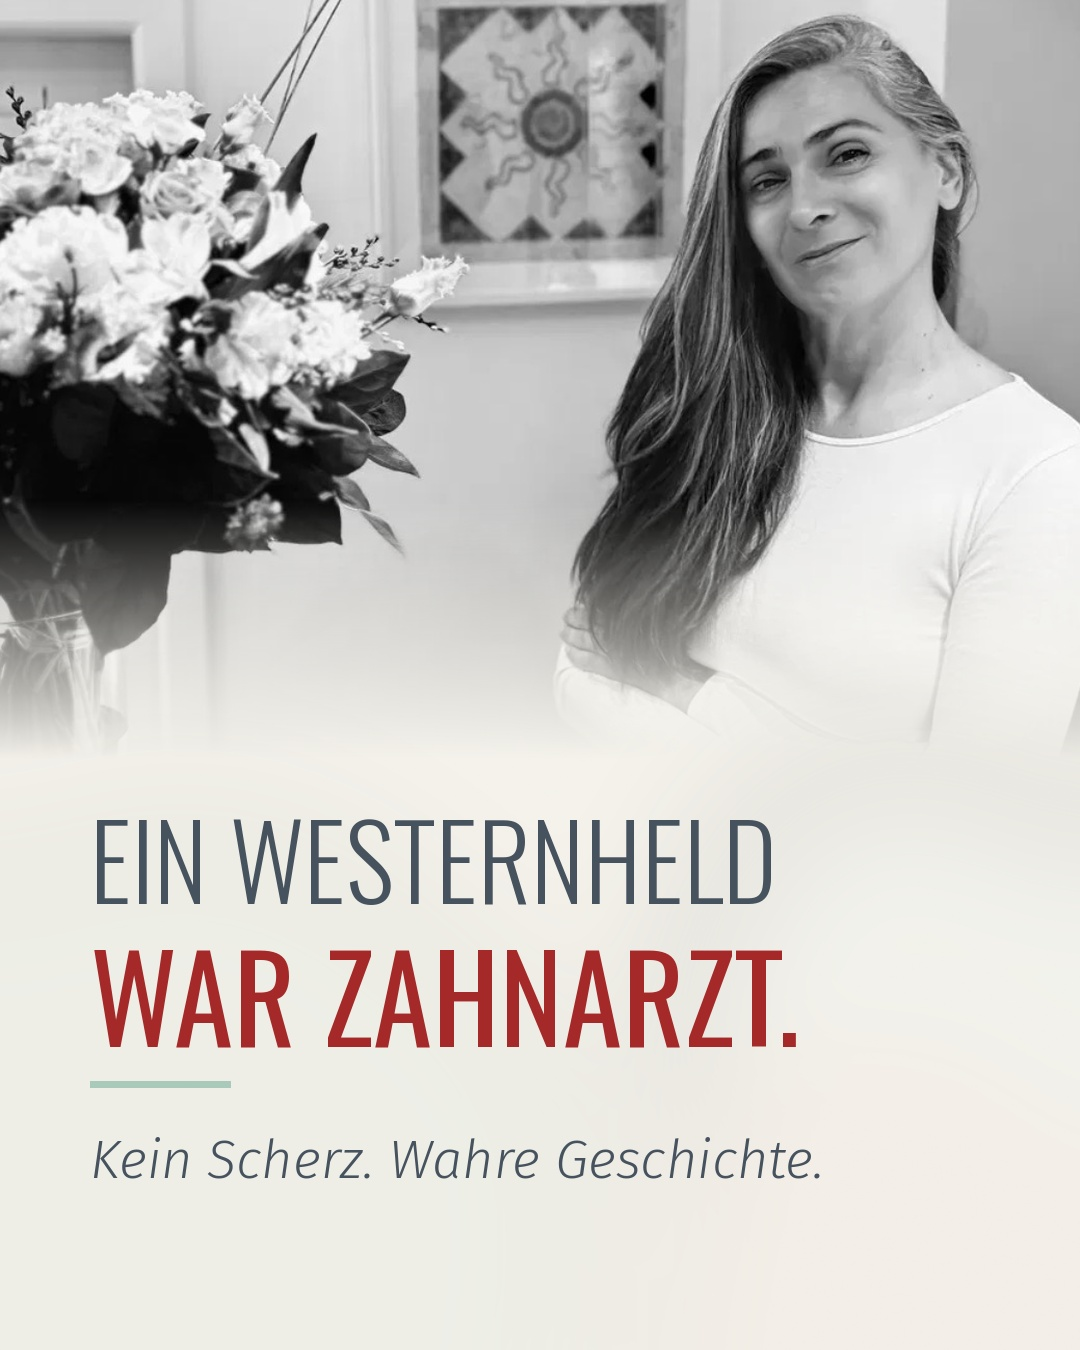
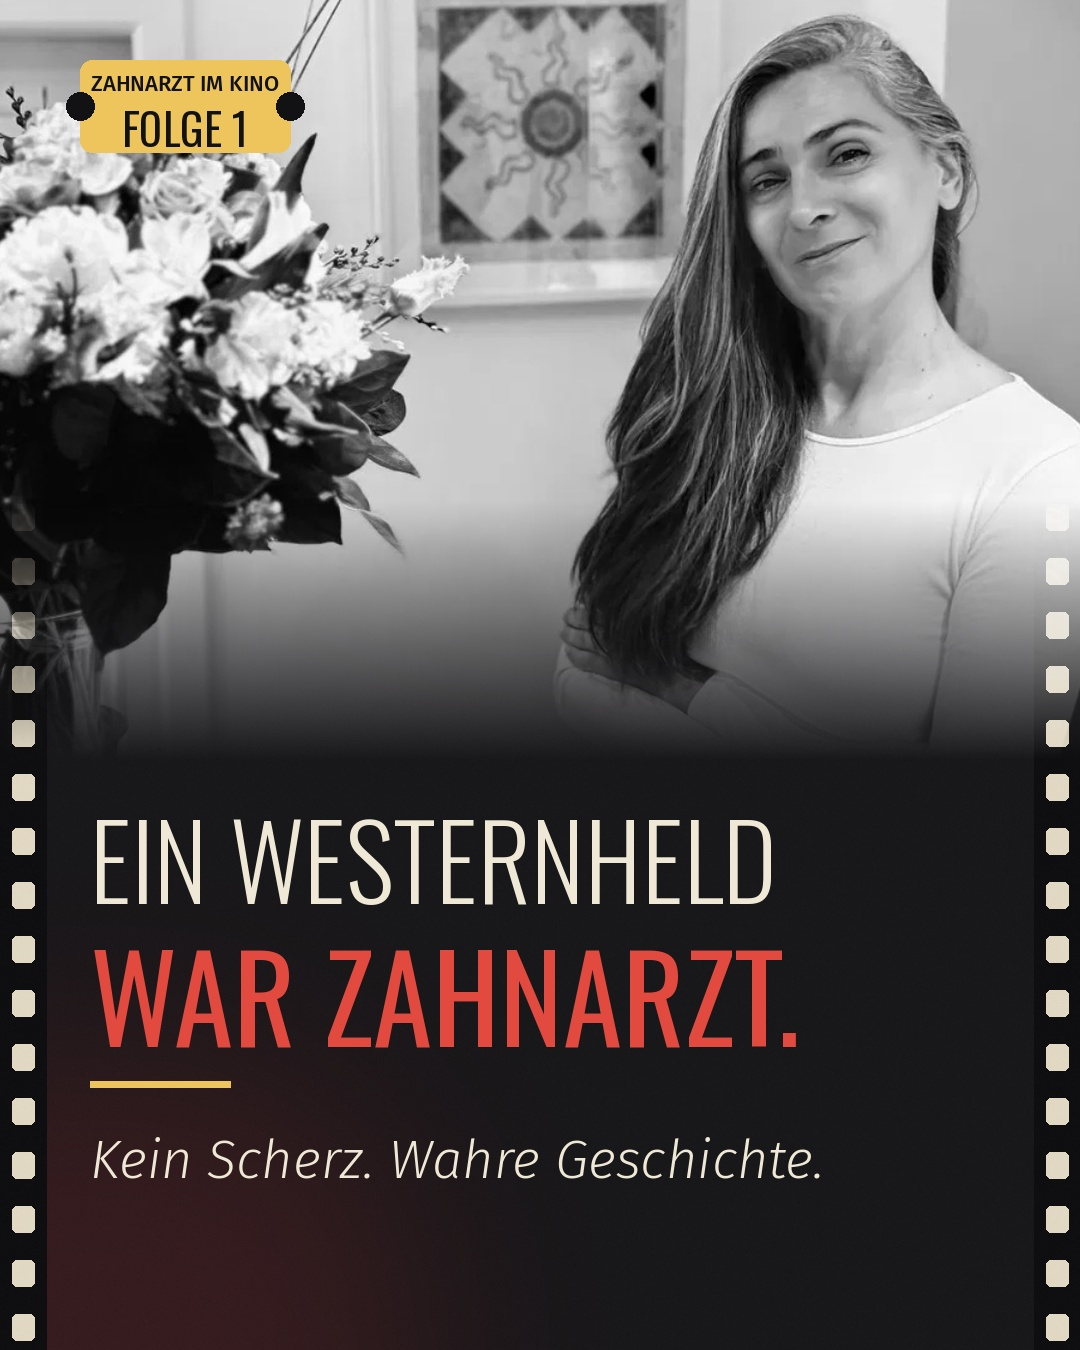
Kino-Look für Serie Zahnarzt im Kino
Claude-Session: https://claude.ai/code/session_012SPZoo3349FxBHtRPxeMWn

diff --git a/template/make_media.py b/template/make_media.py
@@ -49,7 +49,26 @@ def make_advent_bg(H):
     return Image.blend(bg.convert("RGB"), Image.merge("RGB", [noise] * 3), 0.035).convert("RGBA")
 
 
+def make_kino_bg(H):
+    random.seed(5)
+    bg = Image.new("RGB", (W, H), (18, 17, 20)).convert("RGBA")
+    glow = Image.new("RGBA", (W, H), (0, 0, 0, 0)); gd = ImageDraw.Draw(glow)
+    gd.ellipse([W * .1, -H * .25, W * .9, H * .45], fill=(255, 226, 170, 38))   # projector light
+    gd.ellipse([-200, H - 380, 500, H + 250], fill=(166, 41, 41, 55))           # red curtain glow
+    bg = Image.alpha_composite(bg, glow.filter(ImageFilter.GaussianBlur(120)))
+    # film strip edges
+    d = ImageDraw.Draw(bg); sw = 46
+    for x0 in (0, W - sw):
+        d.rectangle([x0, 0, x0 + sw, H], fill=(8, 8, 10))
+        y = 18
+        while y < H:
+            d.rounded_rectangle([x0 + 12, y, x0 + sw - 12, y + 26], radius=5, fill=(232, 222, 200, 255)); y += 54
+    noise = Image.effect_noise((W, H), 30).convert("L").point(lambda v: 128 + (v - 128) // 2)
+    return Image.blend(bg.convert("RGB"), Image.merge("RGB", [noise] * 3), 0.06).convert("RGBA")
+
+
 def make_bg(H):
+    if THEME == "kino": return make_kino_bg(H)
     if THEME == "advent": return make_advent_bg(H)
     random.seed(7)
     bg = Image.new("RGB", (W, H), CREAM)
@@ -151,6 +170,8 @@ class Builder:
         THEME = spec.get("theme", "default")
         if THEME == "advent":
             SLATE, RED, SAGE = (247, 239, 222), (236, 112, 96), (214, 178, 110)
+        elif THEME == "kino":
+            SLATE, RED, SAGE = (240, 232, 214), (226, 74, 64), (238, 196, 92)
         s.spec, s.H = spec, H
         s.reel = H == 1920
         s.bg = make_bg(H)
@@ -160,6 +181,17 @@ class Builder:
         s.zone = (260, 1520) if s.reel else (130, H - 140)
 
     def door(s, img, left=False):
+        if THEME == "kino" and s.spec.get("episode"):
+            d = ImageDraw.Draw(img); tw_, th_ = 210, 92
+            x0 = (80 if left else W - 80 - tw_); y0 = (150 if s.reel else 60)
+            d.rounded_rectangle([x0, y0, x0 + tw_, y0 + th_], radius=12, fill=SAGE)
+            for cy in (y0 + th_ / 2,):
+                d.ellipse([x0 - 14, cy - 14, x0 + 14, cy + 14], fill=(18, 17, 20)); d.ellipse([x0 + tw_ - 14, cy - 14, x0 + tw_ + 14, cy + 14], fill=(18, 17, 20))
+            f1 = fira(22, "Medium"); f2 = oswald(44, 400)
+            t1 = "ZAHNARZT IM KINO"; t2 = f"FOLGE {s.spec['episode']}"
+            d.text((x0 + (tw_ - d.textlength(t1, font=f1)) / 2, y0 + 10), t1, font=f1, fill=(18, 17, 20))
+            d.text((x0 + (tw_ - d.textlength(t2, font=f2)) / 2, y0 + 34), t2, font=f2, fill=(18, 17, 20))
+            return
         n = s.spec.get("door")
         if THEME != "advent" or not n: return
         sz = 150

diff --git a/plan/redaktionsplan.md b/plan/redaktionsplan.md
@@ -33,4 +33,5 @@ Zusätzlich (außerhalb des Mo/Mi-Rhythmus): **Fr 13.11.2026 10:00 – Marken-Ka
 ## Idee Jänner 2027 (von Neda, 21.10.2026) – Serie „Zahnarzt im Kino" (4–5 Posts, nach dem Urlaub ab 11.01.)
 Light, funny, easy to digest; each with a small AHA + positive tip. NOT yet approved in detail – discuss with Neda in early December before building.
 Candidate topics: Doc Holliday (Western legend was a trained dentist – real) · Django Unchained (Christoph Waltz as ex-dentist Dr. King Schultz, wagon with the big tooth) · The Sisters Brothers (gunslinger buys his first toothbrush) · Charlie und die Schokoladenfabrik (Willy Wonka's father is a dentist) · „Bitte nicht nachmachen" (Hangover / Cast Away: pulling/knocking out your own tooth) · Findet Nemo (fish in a dentist's aquarium) / Hollywood & dental fear (Marathon Man, Kleiner Horrorladen) → „bei uns ist es zum Glück ganz anders".
+Look (Neda chose 21.10.): `"theme": "kino"` + `"episode": <n>` – dark cinema background with film-strip edges, projector light, gold ticket badge "ZAHNARZT IM KINO · FOLGE n"; sample drafts/kino_muster/ (Doc Holliday). Each episode ends with a teaser for the next one.
 Copyright: NO film clips, stills, posters or actor photos (not allowed for practice advertising). Name the film, describe the scene in our own design/text; optionally a trending Instagram sound added in the app.
